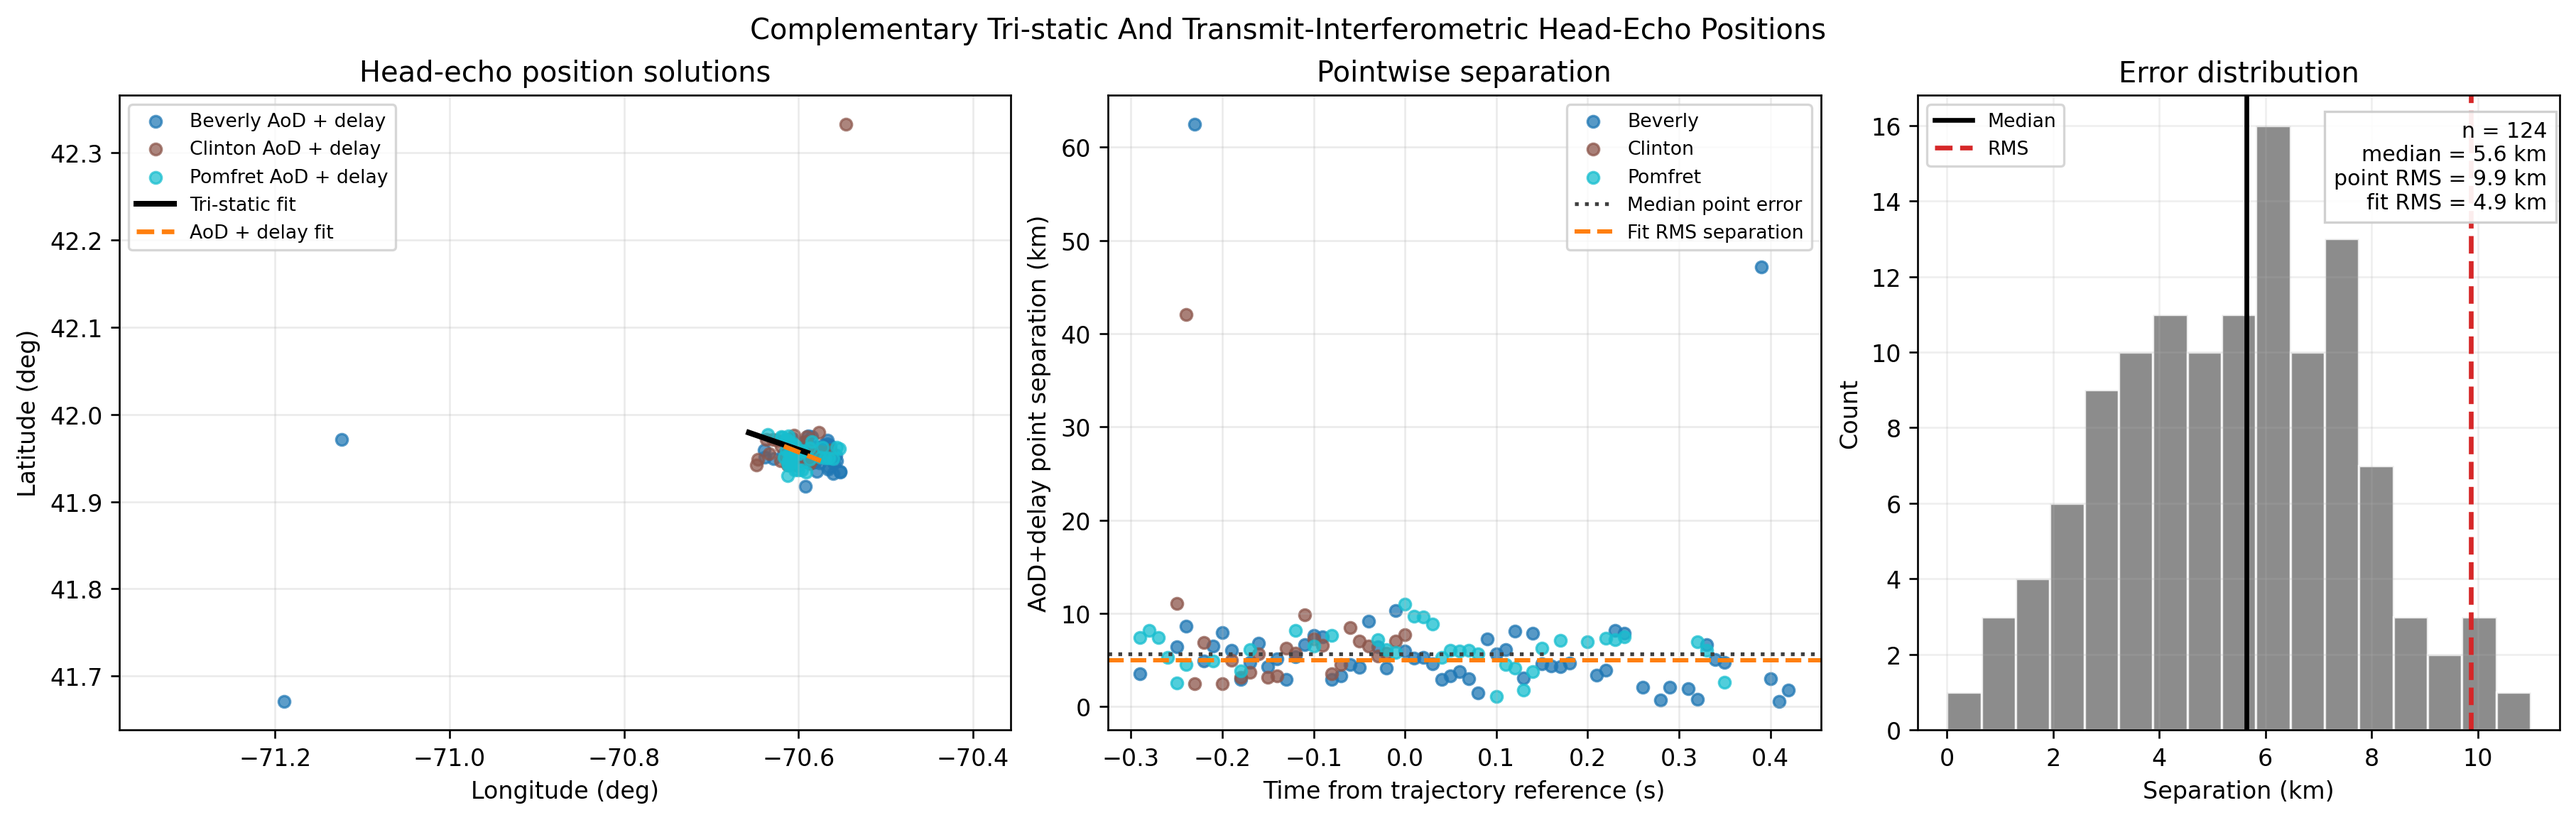
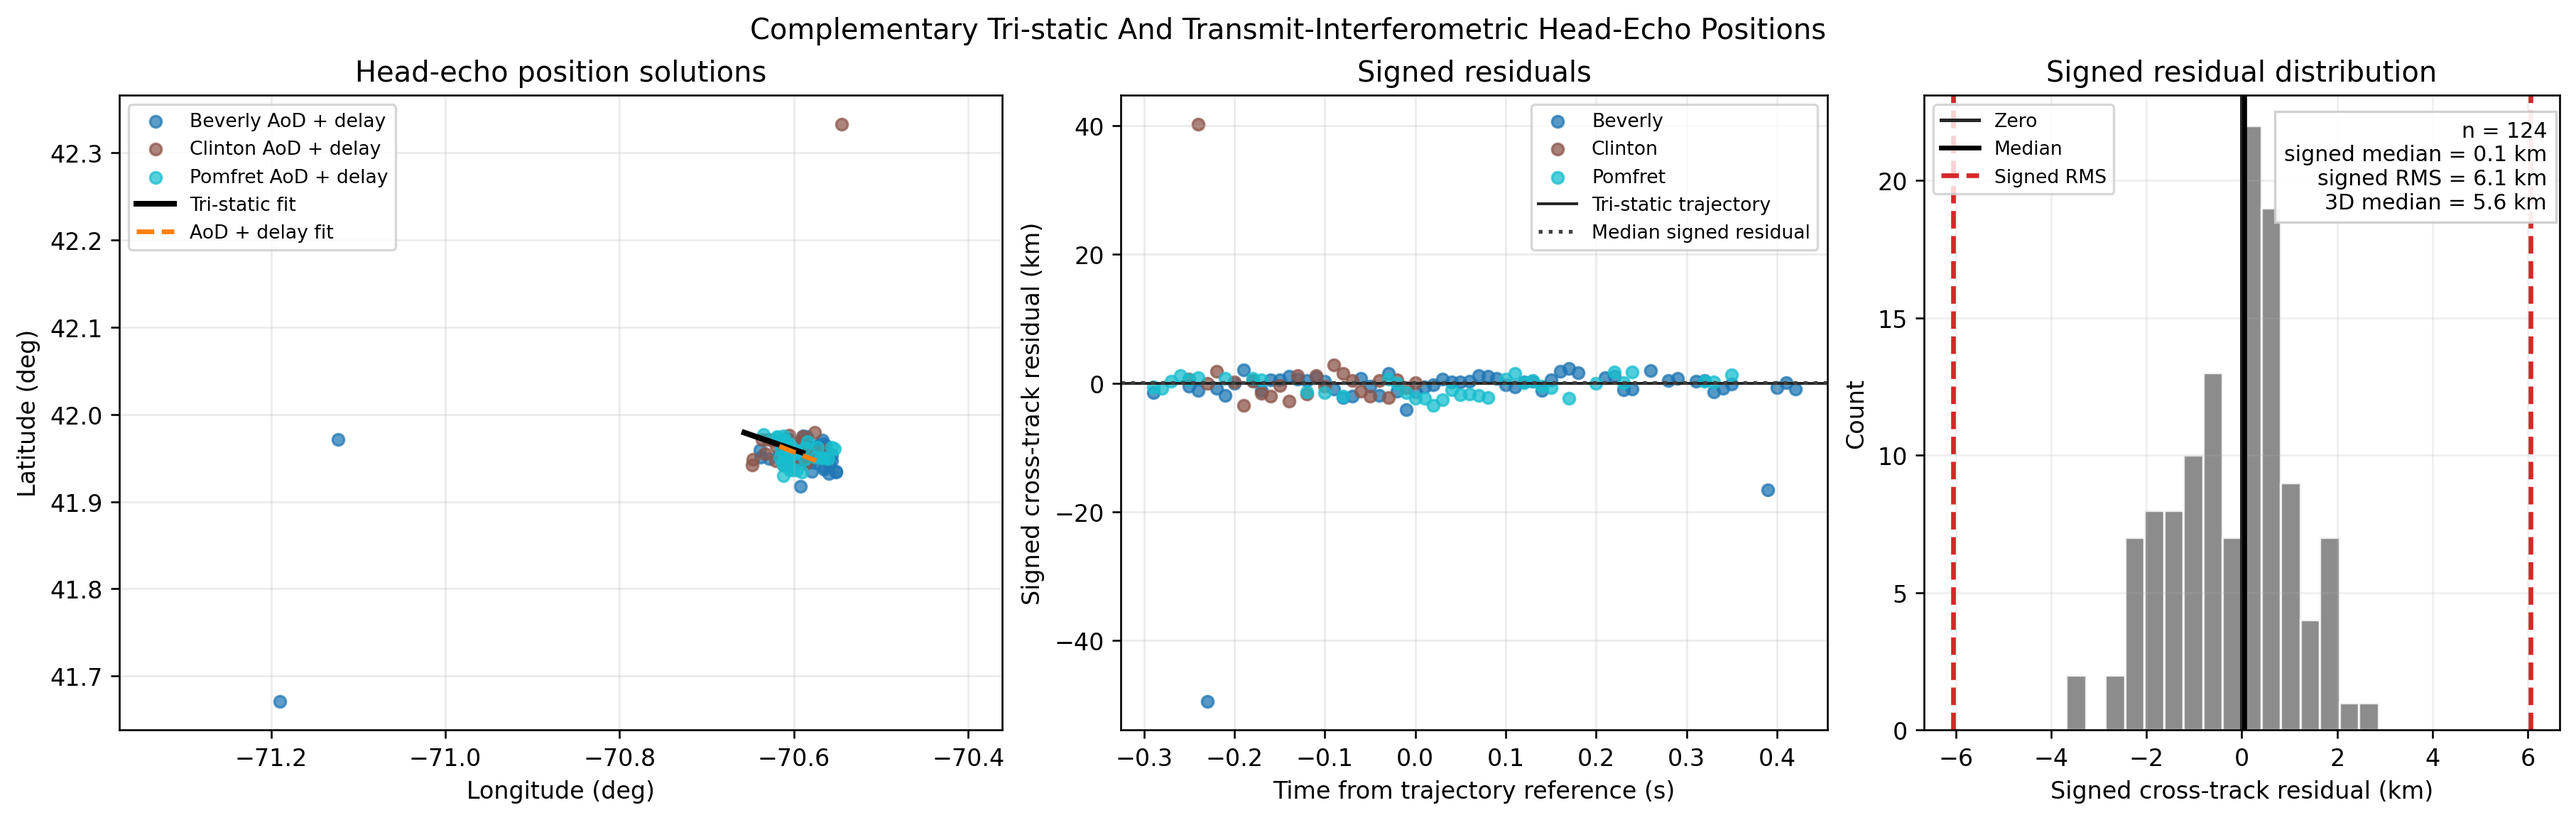
Use signed residuals in AoD comparison figure

diff --git a/aod_position_from_merged.py b/aod_position_from_merged.py
@@ -316,7 +316,14 @@ def plot_appendix_comparison(rows, fit, tx_ecef, rot, line_fit, summary, out_png
     t_rel = times - t0
     pos = np.array([r["position_enu_m"] for r in rows], dtype=float)
     tri = np.array([model_fit_enu(fit, t) for t in times])
-    err_km = np.linalg.norm(pos - tri, axis=1) / 1000.0
+    tri_velocity = np.asarray(fit["fit_parameters_enu_at_tx"]["velocity_mps"], dtype=float)
+    ground_track = tri_velocity[:2]
+    ground_track_norm = np.linalg.norm(ground_track)
+    if ground_track_norm > 0.0:
+        cross_track_unit = np.array([-ground_track[1], ground_track[0], 0.0]) / ground_track_norm
+    else:
+        cross_track_unit = np.array([1.0, 0.0, 0.0])
+    signed_cross_track_km = ((pos - tri) @ cross_track_unit) / 1000.0
 
     t_grid = np.linspace(times.min(), times.max(), 250)
     tri_grid = np.array([model_fit_enu(fit, t) for t in t_grid])
@@ -355,28 +362,38 @@ def plot_appendix_comparison(rows, fit, tx_ecef, rot, line_fit, summary, out_png
     ax = axes[1]
     for station in stations:
         mask = np.array([r["station"] == station for r in rows])
-        ax.scatter(t_rel[mask], err_km[mask], s=24, alpha=0.75, color=colors[station], label=station_label(station))
-    ax.axhline(summary["all"]["median_position_error_vs_tristatic_m"] / 1000.0, color="0.25", lw=1.6, ls=":", label="Median point error")
-    ax.axhline(summary["all"]["aod_fit_rms_error_vs_tristatic_m"] / 1000.0, color="C1", lw=1.8, ls="--", label="Fit RMS separation")
+        ax.scatter(
+            t_rel[mask],
+            signed_cross_track_km[mask],
+            s=24,
+            alpha=0.75,
+            color=colors[station],
+            label=station_label(station),
+        )
+    ax.axhline(0.0, color="0.15", lw=1.2, label="Tri-static trajectory")
+    ax.axhline(np.median(signed_cross_track_km), color="0.25", lw=1.6, ls=":", label="Median signed residual")
     ax.set_xlabel("Time from trajectory reference (s)")
-    ax.set_ylabel("AoD+delay point separation (km)")
-    ax.set_title("Pointwise separation")
+    ax.set_ylabel("Signed cross-track residual (km)")
+    ax.set_title("Signed residuals")
     ax.grid(alpha=0.25)
     ax.legend(loc="best", fontsize=8)
 
     ax = axes[2]
-    bins = np.linspace(0.0, max(1.0, np.nanpercentile(err_km, 97.0)), 18)
-    ax.hist(err_km, bins=bins, color="0.45", alpha=0.82, edgecolor="white")
-    ax.axvline(summary["all"]["median_position_error_vs_tristatic_m"] / 1000.0, color="k", lw=2.0, label="Median")
-    ax.axvline(summary["all"]["rms_position_error_vs_tristatic_m"] / 1000.0, color="C3", lw=2.0, ls="--", label="RMS")
+    lim = max(1.0, np.nanpercentile(np.abs(signed_cross_track_km), 97.0))
+    bins = np.linspace(-lim, lim, 19)
+    ax.hist(signed_cross_track_km, bins=bins, color="0.45", alpha=0.82, edgecolor="white")
+    ax.axvline(0.0, color="0.15", lw=1.5, label="Zero")
+    ax.axvline(np.median(signed_cross_track_km), color="k", lw=2.0, label="Median")
+    ax.axvline(np.sqrt(np.mean(signed_cross_track_km**2)), color="C3", lw=2.0, ls="--", label="Signed RMS")
+    ax.axvline(-np.sqrt(np.mean(signed_cross_track_km**2)), color="C3", lw=2.0, ls="--")
     ax.text(
         0.98,
         0.96,
         (
             f"n = {summary['all']['n']}\n"
-            f"median = {summary['all']['median_position_error_vs_tristatic_m']/1000.0:.1f} km\n"
-            f"point RMS = {summary['all']['rms_position_error_vs_tristatic_m']/1000.0:.1f} km\n"
-            f"fit RMS = {summary['all']['aod_fit_rms_error_vs_tristatic_m']/1000.0:.1f} km"
+            f"signed median = {np.median(signed_cross_track_km):.1f} km\n"
+            f"signed RMS = {np.sqrt(np.mean(signed_cross_track_km**2)):.1f} km\n"
+            f"3D median = {summary['all']['median_position_error_vs_tristatic_m']/1000.0:.1f} km"
         ),
         transform=ax.transAxes,
         ha="right",
@@ -384,9 +401,9 @@ def plot_appendix_comparison(rows, fit, tx_ecef, rot, line_fit, summary, out_png
         fontsize=9,
         bbox={"facecolor": "white", "edgecolor": "0.8", "alpha": 0.92},
     )
-    ax.set_xlabel("Separation (km)")
+    ax.set_xlabel("Signed cross-track residual (km)")
     ax.set_ylabel("Count")
-    ax.set_title("Error distribution")
+    ax.set_title("Signed residual distribution")
     ax.grid(alpha=0.2)
     ax.legend(loc="upper left", fontsize=8)
 
